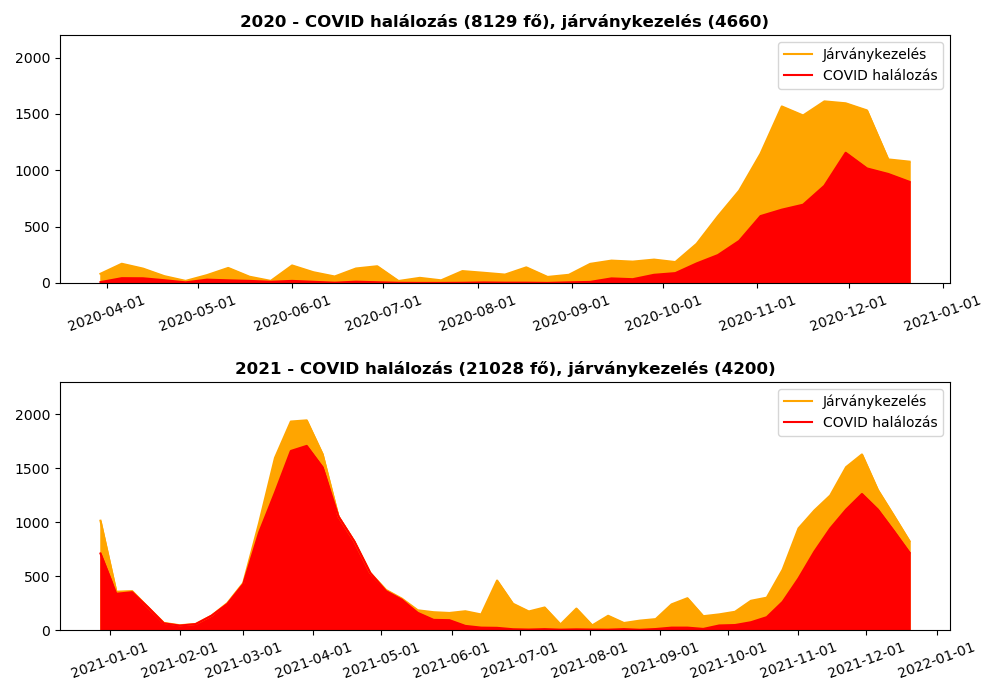
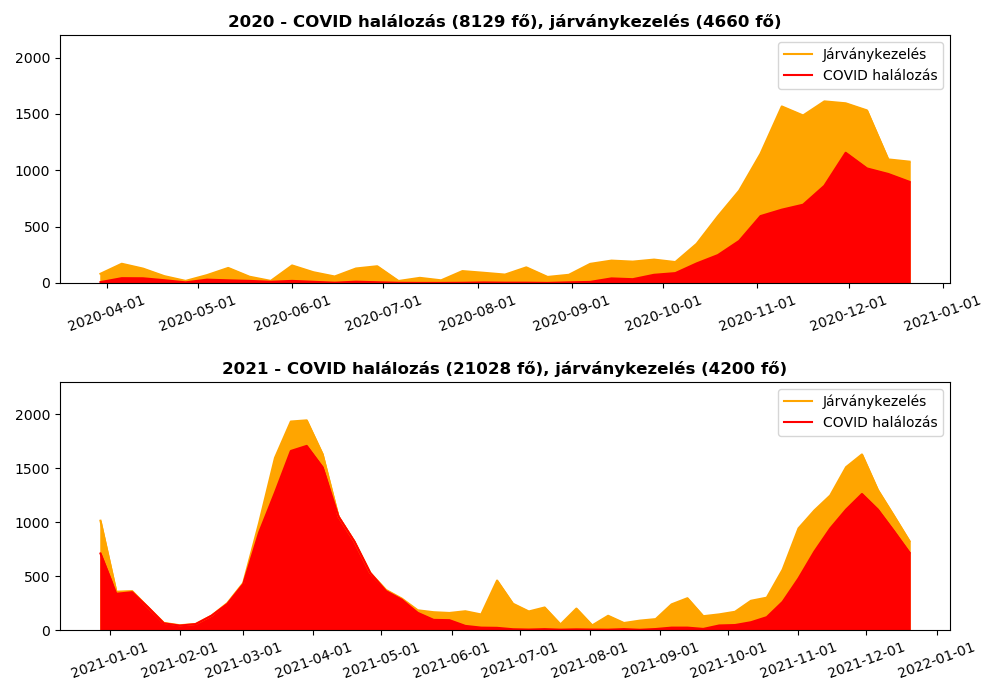
Javítás

Changed region(s): [[0.217, 0.0, 0.775, 0.06], [0.217, 0.51, 0.806, 0.54]]

diff --git a/egyéb/kép_ksh_covid_vs_járványkezelés.py b/egyéb/kép_ksh_covid_vs_járványkezelés.py
@@ -151,7 +151,7 @@ for year in range(2020,2022):
     ax10.plot(dfkshdiff['Dátum'], dfkshdiff['Valós COVID'] + dfkshdiff['Járványkezelés'], color='orange', label="Járványkezelés")
     ax10.plot(dfkshdiff['Dátum'], dfkshdiff['Valós COVID'], color='red', label="COVID halálozás")
     ax10.set_ylim([0,maxmind])
-    ax10.set_title(str(year) + " - COVID halálozás (" + str(covid_halott) + " fő), járványkezelés (" + str(jarvany_halott) + ")", fontweight='bold')
+    ax10.set_title(str(year) + " - COVID halálozás (" + str(covid_halott) + " fő), járványkezelés (" + str(jarvany_halott) + " fő)", fontweight='bold')
     ax10.tick_params(axis='x', rotation=20)
     ax10.fill_between(dfkshdiff['Dátum'], dfkshdiff['Valós COVID'] + dfkshdiff['Járványkezelés'], color="orange")
     ax10.fill_between(dfkshdiff['Dátum'], dfkshdiff['Valós COVID'], color="red")
